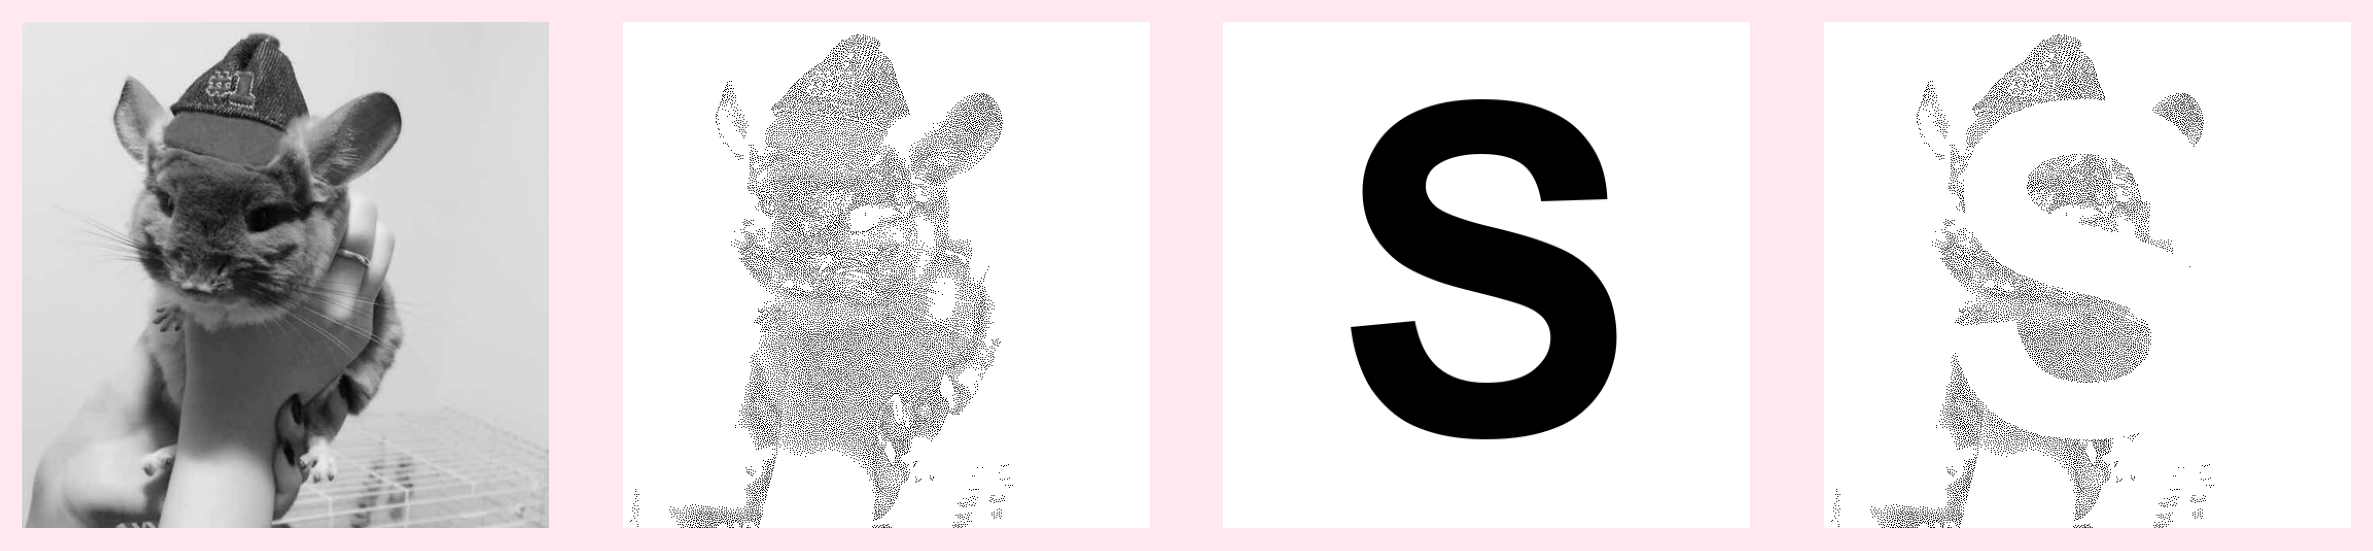
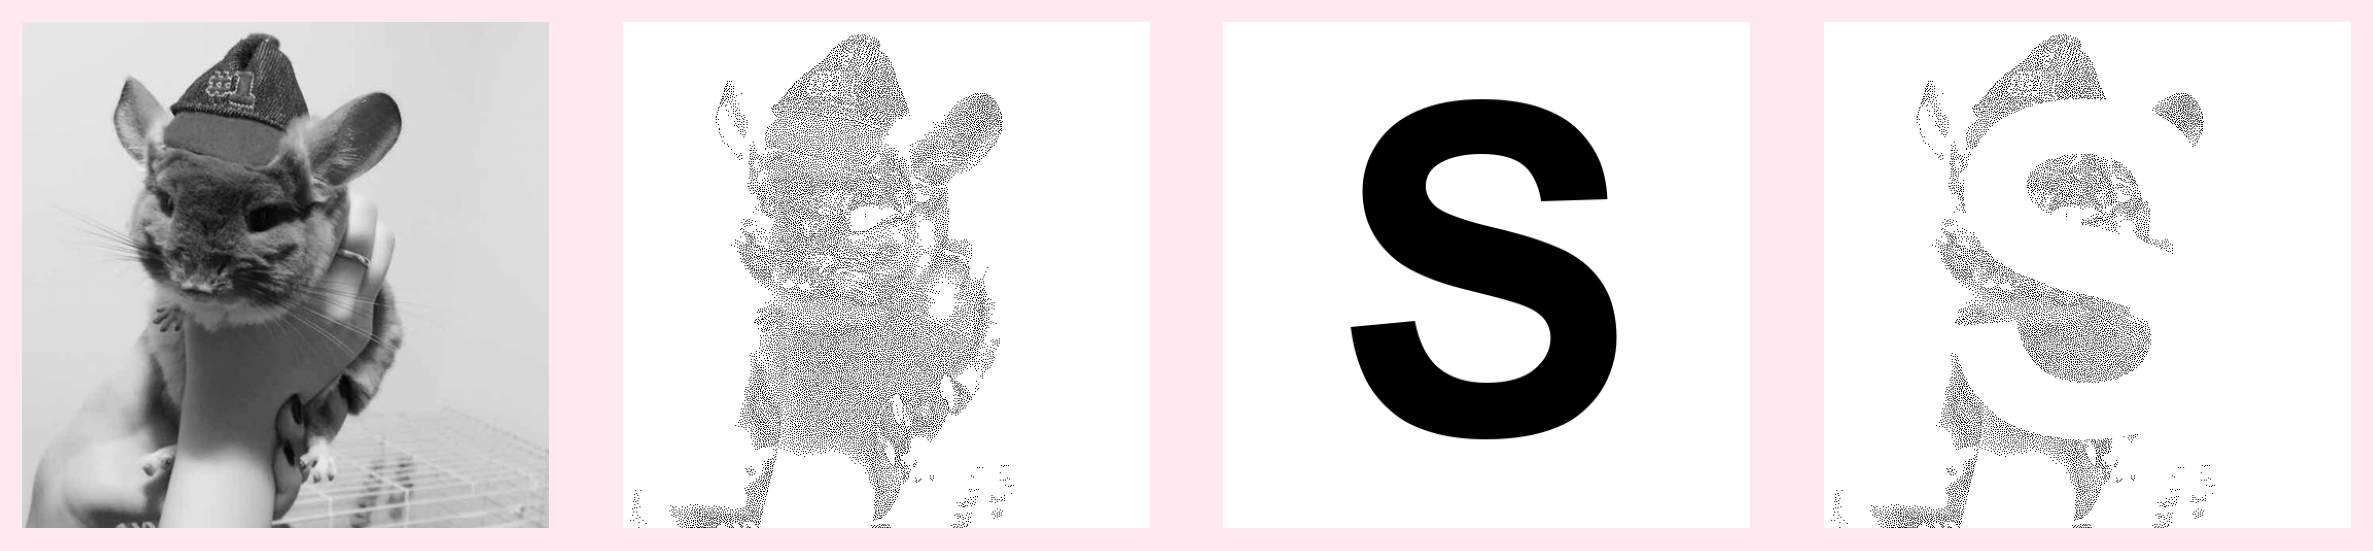
D

diff --git a/index.html b/index.html
@@ -64,33 +64,21 @@ ul.task-list li input[type="checkbox"] {
 </header>
 
 
-<div id="cell-step1-prepare" class="cell" data-fig-show="false" data-execution_count="1">
-<div class="cell-output cell-output-stdout">
-<pre><code>Resized image from (643, 669) to (492, 512) for processing
-Final image shape: (492, 512) (should be 2D for grayscale)</code></pre>
-</div>
+<div id="cell-step1-prepare" class="cell" data-fig-show="false" data-message="false" data-execution_count="1">
 <div class="cell-output cell-output-display">
 <div id="step1-prepare" class="quarto-figure quarto-figure-center anchored">
 <figure class="figure">
-<p><img src="index_files/figure-html/step1-prepare-output-2.png" width="459" height="470" class="figure-img"></p>
+<p><img src="index_files/figure-html/step1-prepare-output-1.png" width="459" height="470" class="figure-img"></p>
 <figcaption>Original image prepared for processing</figcaption>
 </figure>
 </div>
 </div>
 </div>
 <div id="cell-step2-stipple" class="cell" data-fig-show="false" data-message="false" data-execution_count="2">
-<div class="cell-output cell-output-stdout">
-<pre><code>Importance map computed
-Generating blue noise stippling pattern...
-Generated 20152 stipple points
-Stipple pattern shape: (492, 512)
-Number of stippled points (0.0 values): 20152
-Number of background points (1.0 values): 231752</code></pre>
-</div>
 <div class="cell-output cell-output-display">
 <div id="step2-stipple" class="quarto-figure quarto-figure-center anchored">
 <figure class="figure">
-<p><img src="index_files/figure-html/step2-stipple-output-2.png" width="459" height="470" class="figure-img"></p>
+<p><img src="index_files/figure-html/step2-stipple-output-1.png" width="459" height="470" class="figure-img"></p>
 <figcaption>Blue noise stippling pattern</figcaption>
 </figure>
 </div>
@@ -116,11 +104,11 @@ Number of background points (1.0 values): 231752</code></pre>
 </div>
 </div>
 </div>
-<div id="cell-create-final-meme" class="cell" data-execution_count="6">
+<div id="cell-create-final-meme" class="cell" data-fig-show="false" data-message="false" data-execution_count="6">
 <div class="cell-output cell-output-display">
 <div id="create-final-meme" class="quarto-figure quarto-figure-center anchored">
 <figure class="figure">
-<p><img src="index_files/figure-html/create-final-meme-output-1.png" class="img-fluid figure-img"></p>
+<p><img src="index_files/figure-html/create-final-meme-output-1.png" width="567" height="146" class="figure-img"></p>
 <figcaption>Four-panel meme: Reality, Your Model, Selection Bias, Estimate</figcaption>
 </figure>
 </div>
